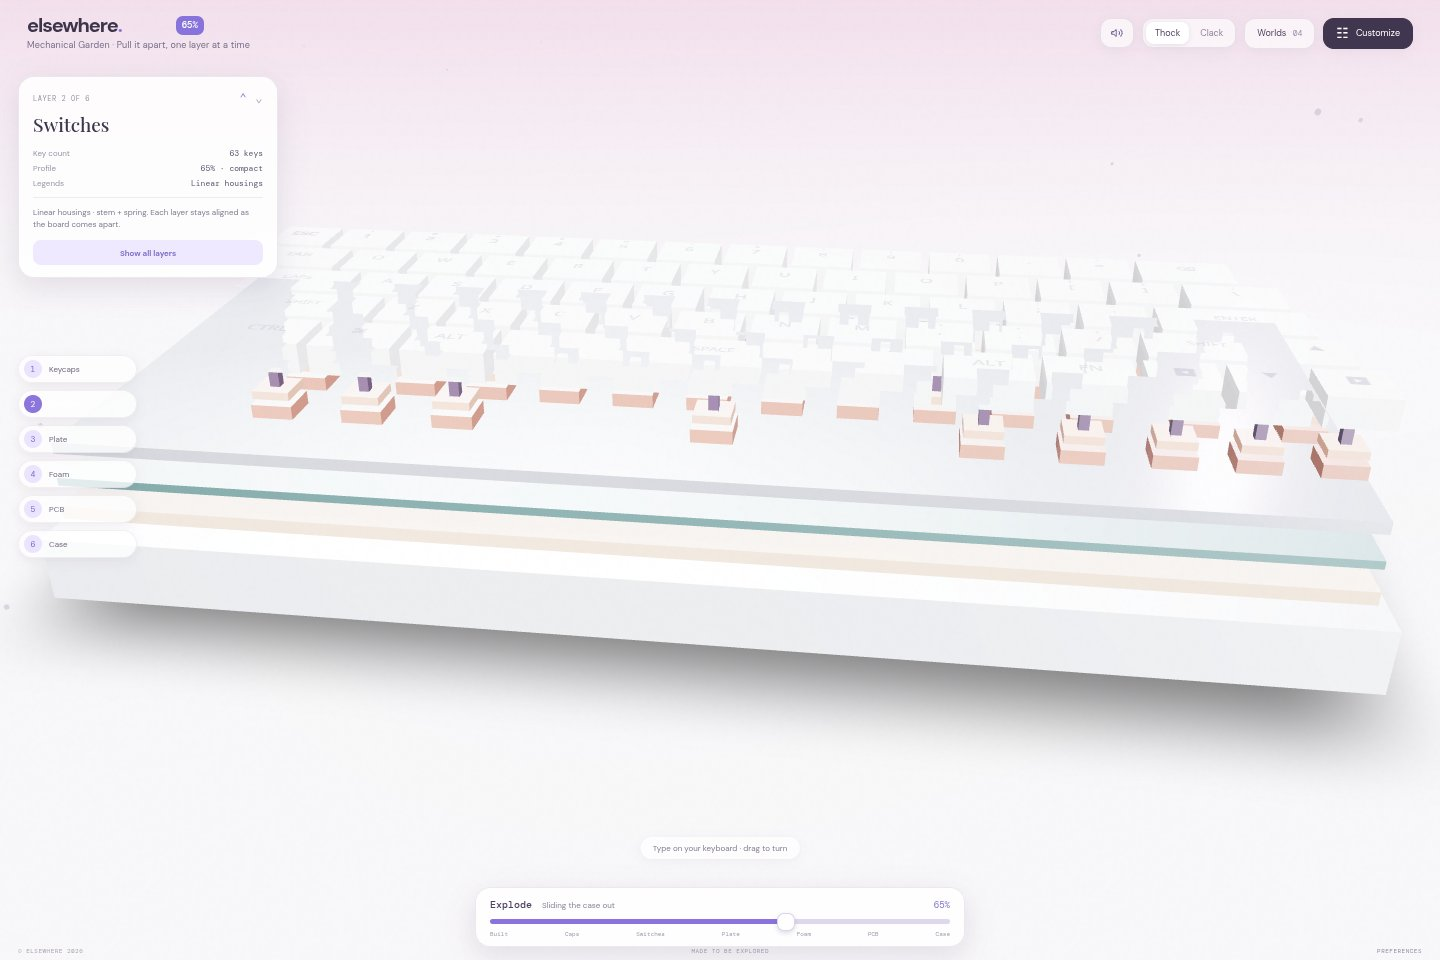
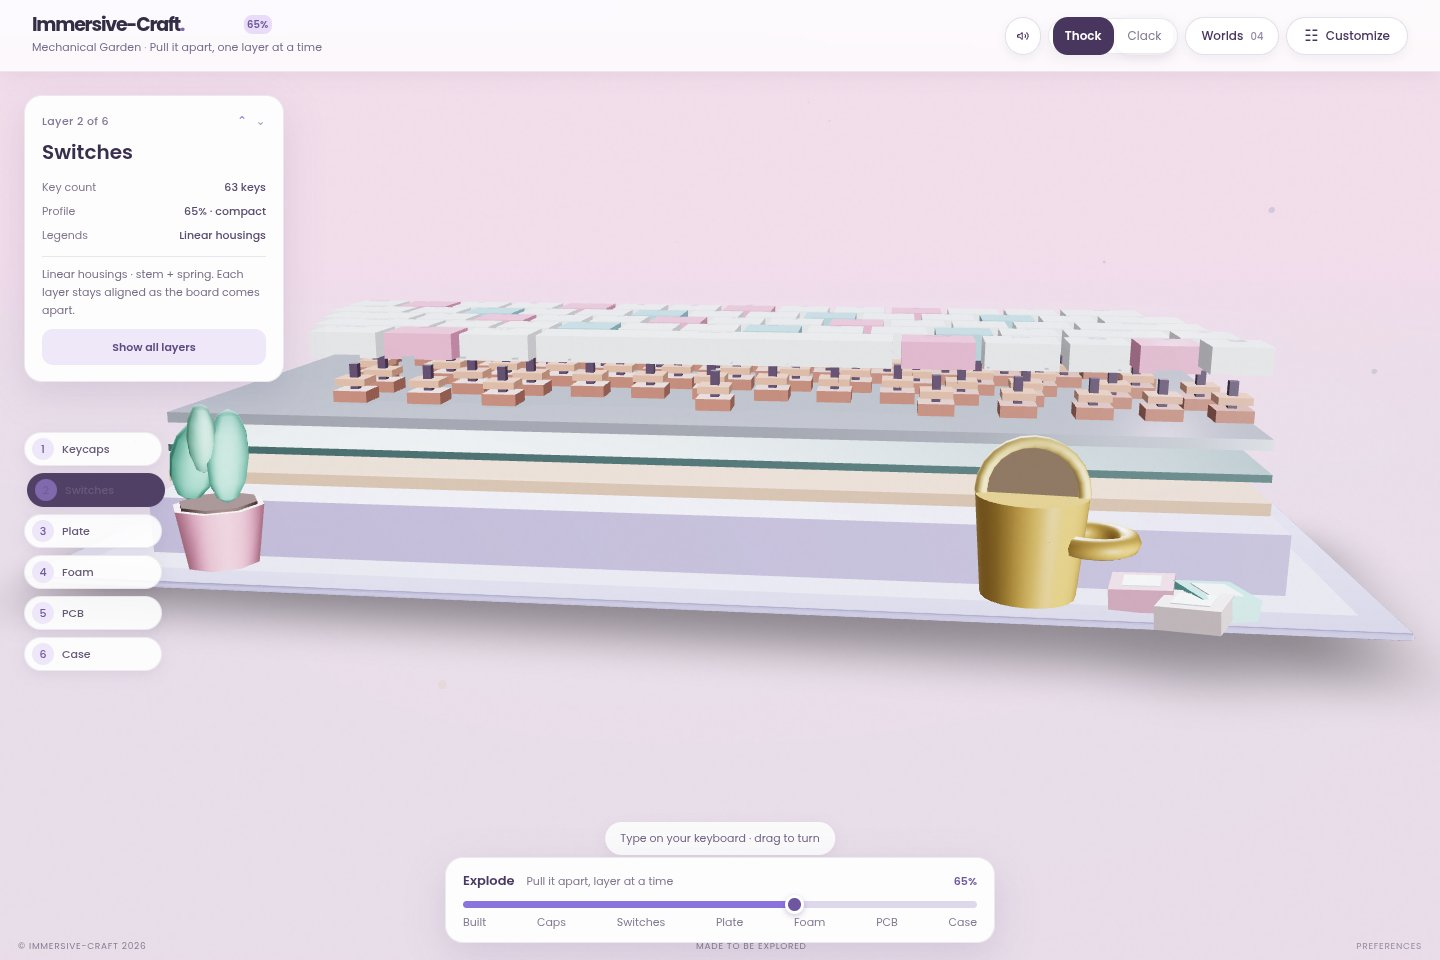
docs: document world previews and refresh images

diff --git a/docs/images/README.md b/docs/images/README.md
@@ -4,14 +4,14 @@ These images accompany the root [README](../../README.md). Application images ar
 
 ## Capture context
 
-- **Local source revisions:** Pavilion images were captured from `c568fd23ffe49e21d09c9c9a0832385bd17670b1`; keyboard and archive images were captured from `9d7306f7ad7d704f1fc7e89b306dd6eaa1e84121`.
-- **Deployed Site:** The separately published experience still renders the Elsewhere identity; its Sites display title is Immersive-Craft.
-- **Capture date:** 11 November 2026, Asia/Bangkok.
-- **Local application:** Vite development server at `http://localhost:5173`.
+- **Local source revisions:** `worlds-home.jpg`, `mechanical-garden.jpg`, `keyboard-exploded.jpg`, `keyboard-isolation.jpg`, and `world-directory.jpg` were captured from `162962e60e5c0cec15e1d462630463361f8f55dd`; pavilion images use `c568fd23ffe49e21d09c9c9a0832385bd17670b1`; the remaining keyboard and archive images use `9d7306f7ad7d704f1fc7e89b306dd6eaa1e84121`.
+- **Deployed Site capture:** `published-site.jpg` documents an earlier deployment and may differ from the current Site.
+- **Capture dates:** Updated home and keyboard images: 12 November 2026; earlier captures: 11 November 2026, Asia/Bangkok.
+- **Local application:** Vite development server; port 5185 for the latest captures and 5173 for the earlier set.
 - **Browser:** Chromium, automated with Playwright, using a WebGL 2 software renderer in the capture environment.
 - **Desktop viewport:** 1440 × 960, device scale factor 1.
 - **Mobile viewport:** 390 × 844, device scale factor 1; viewport emulation, not a physical-device performance test.
-- **Motion preference:** pavilion captures use the browser's reduced-motion setting to keep assembly transitions short in the software-rendering environment.
+- **Motion preference:** the latest home and keyboard images and the pavilion captures use the browser's reduced-motion setting.
 - **Published Site:** <https://immersive.teerananpakdeekhan.chatgpt.site/>.
 - **External assets:** original font and scene-asset responses were relayed through the environment's HTTP client for browser access. Application source, rendering parameters, and asset contents were not changed for the screenshots.
 
@@ -19,13 +19,14 @@ These images accompany the root [README](../../README.md). Application images ar
 
 | File | Source / state | Reproduce |
 | --- | --- | --- |
-| `mechanical-garden.jpg` | `/`, default assembled keyboard | Open the default world with the customization drawer visible. |
-| `keyboard-exploded.jpg` | `/`, exploded view | Close the drawer and set Explode to 65%. |
-| `keyboard-isolation.jpg` | `/`, isolated switches | From the exploded view, select Switches in the layer rail. |
+| `worlds-home.jpg` | `/`, world previews | Open the home page with Mechanical Garden selected. |
+| `mechanical-garden.jpg` | `/?world=mechanical-garden`, default assembled keyboard | Open the keyboard world with the customization drawer visible. |
+| `keyboard-exploded.jpg` | `/?world=mechanical-garden`, exploded view | Close the drawer and set Explode to 65%. |
+| `keyboard-isolation.jpg` | `/?world=mechanical-garden`, isolated switches | From the exploded view, select Switches in the layer rail. |
 | `keyboard-customization.jpg` | `/`, customized keyboard | Show all layers, set Explode to 0, choose Matcha, Mint, and Brass. |
 | `keyboard-input.jpg` | `/`, active key | With the drawer closed, hold the physical A key. |
-| `world-directory.jpg` | `/`, world selector | Open Worlds from the top controls. |
-| `pavilion-frame.jpg` | `/?world=kigumi`, stage 04 | Hold Build through foundation, pillars, beams, and the joint stage. |
+| `world-directory.jpg` | `/?world=mechanical-garden`, world selector | Open Worlds from the top controls. |
+| `pavilion-frame.jpg` | `/?world=kigumi`, stage 04 | Start Build and pause at the joint stage, or step through the first four stages. |
 | `pavilion-joinery.jpg` | `/?world=kigumi`, completed connections | Complete all six connection animations at stage 04. |
 | `pavilion-dawn.jpg` | `/?world=kigumi`, complete | Continue through rafters, roof tiles, and shoji screens. Keep Time of day at 0. |
 | `pavilion-night.jpg` | `/?world=kigumi`, complete at night | Move Time of day to 100. |

diff --git a/README.md b/README.md
@@ -44,6 +44,12 @@ The live site and GitHub source can change independently. The descriptions below
 
 ## Features
 
+### World previews
+
+![Immersive-Craft home page showing a live Mechanical Garden preview and world controls](docs/images/worlds-home.jpg)
+
+The home page plays a rotating live preview of the two implemented worlds. Use the arrows or indicators to choose a world, pause the preview, or open the featured experience. Previews stop cycling when the page is hidden or reduced motion is enabled; the planned worlds are not yet playable.
+
 ### Mechanical Garden
 
 An interactive study of a 65%-style mechanical keyboard.
@@ -90,7 +96,7 @@ The application catalog lists two implemented worlds and two planned concepts:
 
 | World | Status | Local route |
 | --- | --- | --- |
-| Mechanical Garden | Implemented | `/` or `/?world=mechanical-garden` |
+| Mechanical Garden | Implemented | `/?world=mechanical-garden` or `/world/keyboard` |
 | Kigumi Pavilion | Implemented | `/?world=kigumi` or `/world/kigumi` |
 | Aurora Drift | Planned concept | Not available |
 | Mosslight Grove | Planned concept | Not available |
@@ -128,7 +134,7 @@ Open the local URL printed by Vite, normally [http://localhost:5173](http://loca
 
 ## Usage
 
-Open the default route to explore Mechanical Garden. Visit `/?world=kigumi` for Kigumi Pavilion.
+Open `/` to browse rotating world previews. Choose a world or visit `/?world=mechanical-garden` for the keyboard and `/?world=kigumi` for Kigumi Pavilion.
 
 **Mechanical Garden:** drag **Explode** to reveal the assembly, choose a layer to inspect it, and use the customization drawer to change materials. Hover over keys to reveal switch anatomy. Keyboard input can press matching keys.
 
@@ -136,7 +142,7 @@ Open the default route to explore Mechanical Garden. Visit `/?world=kigumi` for 
 
 For a quick tour:
 
-1. Open `/`, move the Explode control, and select a keyboard layer.
+1. Open `/` and choose Mechanical Garden, then move the Explode control and select a keyboard layer.
 2. Change a keycap palette or case finish.
 3. Open `/?world=kigumi`, advance through the assembly, and replay a completed joint.
 4. Move the time control toward night and enable wind if desired.
@@ -145,7 +151,7 @@ For a quick tour:
 
 ### Routes and state
 
-The app entry in [src/main.jsx](src/main.jsx) selects the world from the URL. The pavilion is selected by `?world=kigumi` or the exact path `/world/kigumi`; other values open Mechanical Garden. React lazy-loads each world.
+The app entry in [src/main.jsx](src/main.jsx) selects the world from the URL. The pavilion is selected by `?world=kigumi` or `/world/kigumi`; the keyboard uses `?world=mechanical-garden` or `/world/keyboard`. The root route shows the world previews. React lazy-loads each world.
 
 World state uses Zustand in the browser session. The React worlds do not persist preferences or progress across reloads. The standalone wireframes use their own local storage keys and do not configure the 3D application.
 
@@ -165,7 +171,7 @@ Deploy the generated `dist/` directory to a static host. The wireframe archive i
 node -e "require('node:fs').cpSync('wireframes', 'dist/wireframes', { recursive: true })"
 ```
 
-For direct visits to `/world/kigumi`, configure the host to serve `index.html` as the SPA fallback. The query route `/?world=kigumi` works without that path rewrite. The repository does not include an automated publishing pipeline for the linked ChatGPT Site; pushing to GitHub does not publish that site.
+For direct visits to `/world/kigumi` or `/world/keyboard`, configure the host to serve `index.html` as the SPA fallback. The query route `/?world=kigumi` works without that path rewrite. The repository does not include an automated publishing pipeline for the linked ChatGPT Site; pushing to GitHub does not publish that site.
 
 ### Technology and project structure
 
